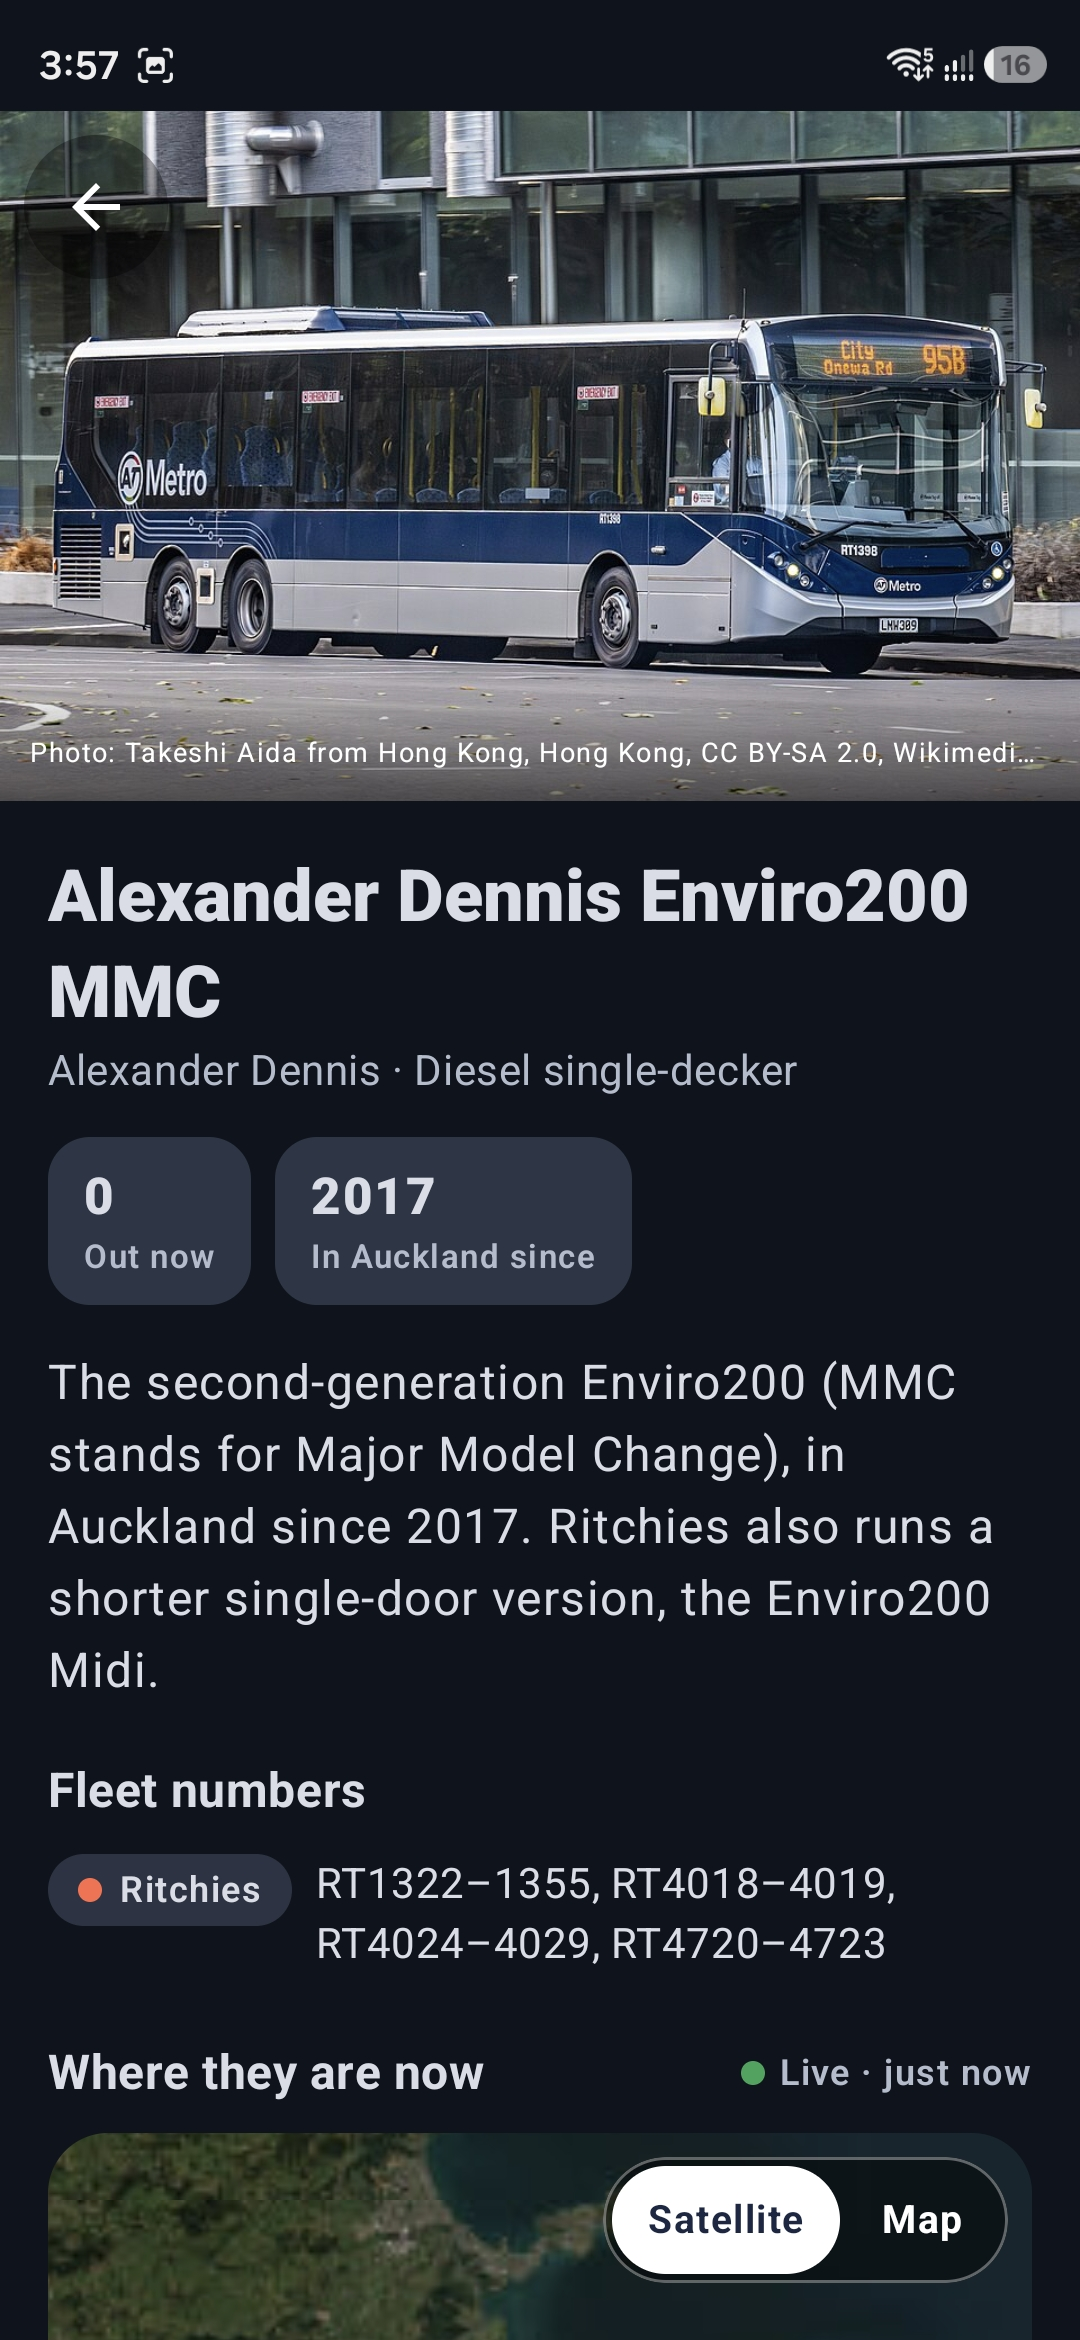
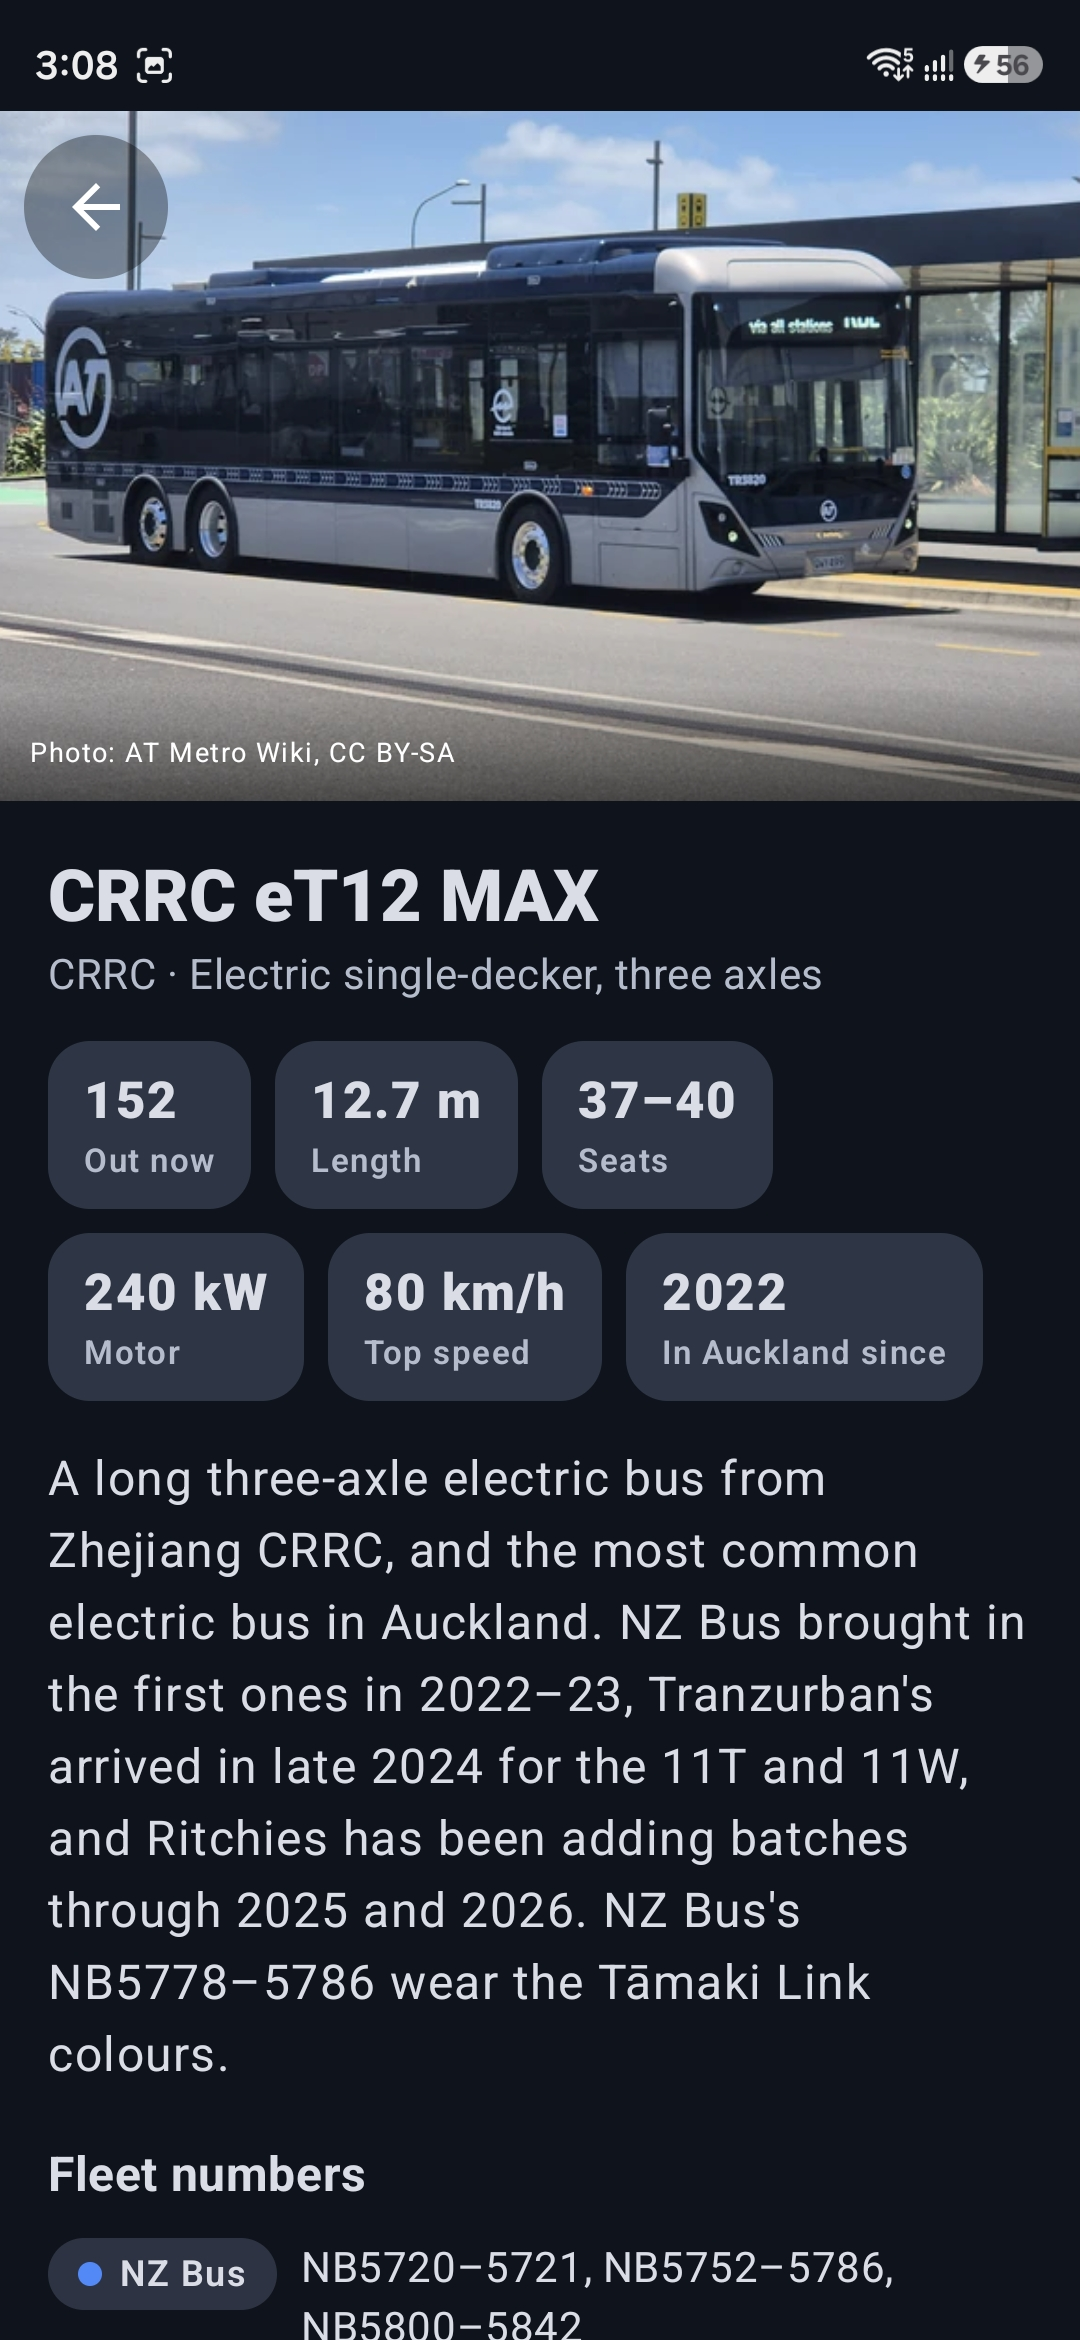
README: eT12 MAX model page screenshot
Claude-Session: https://claude.ai/code/session_011C2fAvFFcMRkaF7qSvRA1v

diff --git a/README.md b/README.md
@@ -80,7 +80,7 @@ Hillsborough, both directions (stop 8669 to Britomart, 8664 to Waikowhai).
 <p align="center">
   <img src="docs/screenshots/fleet.jpg" width="23%" alt="Fleet: the CRRC eT12 MAX and Enviro200, with photos from the AT Metro Wiki">
   <img src="docs/screenshots/fleet-2.jpg" width="23%" alt="Fleet: the CRRC eS12 MAX on the Inner Link and the Geely C13E">
-  <img src="docs/screenshots/model.jpg" width="23%" alt="A model's page: what it is, its fleet numbers, where they are now">
+  <img src="docs/screenshots/model.jpg" width="23%" alt="A model's page: the CRRC eT12 MAX, its specs, history and fleet numbers">
   <img src="docs/screenshots/dex.jpg" width="23%" alt="The fleet dex: models you've spotted, and the mysteries">
 </p>
 <p align="center"><sub>Fleet · More of the fleet · A model's page · Fleet dex</sub></p>
